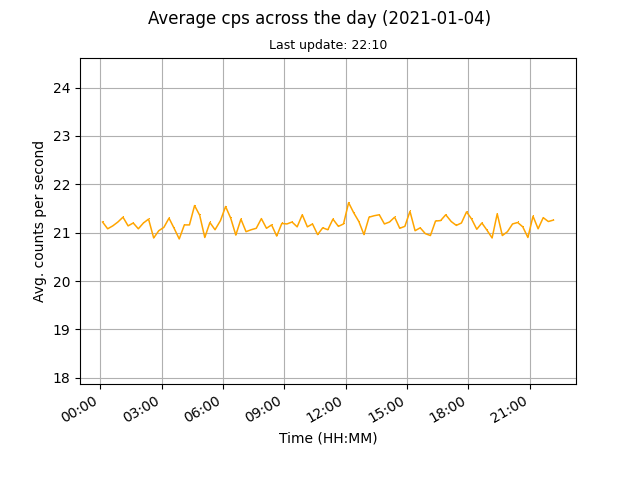
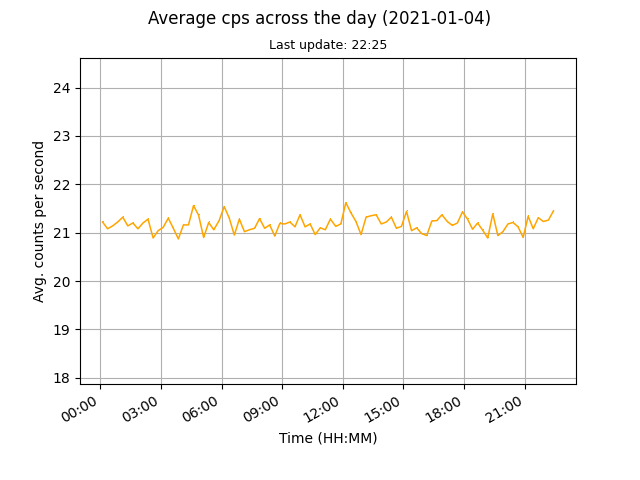
auto data update

diff --git a/docs/index.html b/docs/index.html
@@ -45,8 +45,8 @@
 	
 	<br>
 	
-	<p>Current counts per second (cps): 21.26</p>
-	<p>Last update: 2021-01-04, 22:11</p>
+	<p>Current counts per second (cps): 21.45</p>
+	<p>Last update: 2021-01-04, 22:26</p>
 
 	<p><a href="images/monthly.png"><img src="images/monthly.png" alt="Mothly avg cps data"></a><a href="images/daily.png"><img src="images/daily.png" alt="Daily avg cps data"></a></p>
 	
